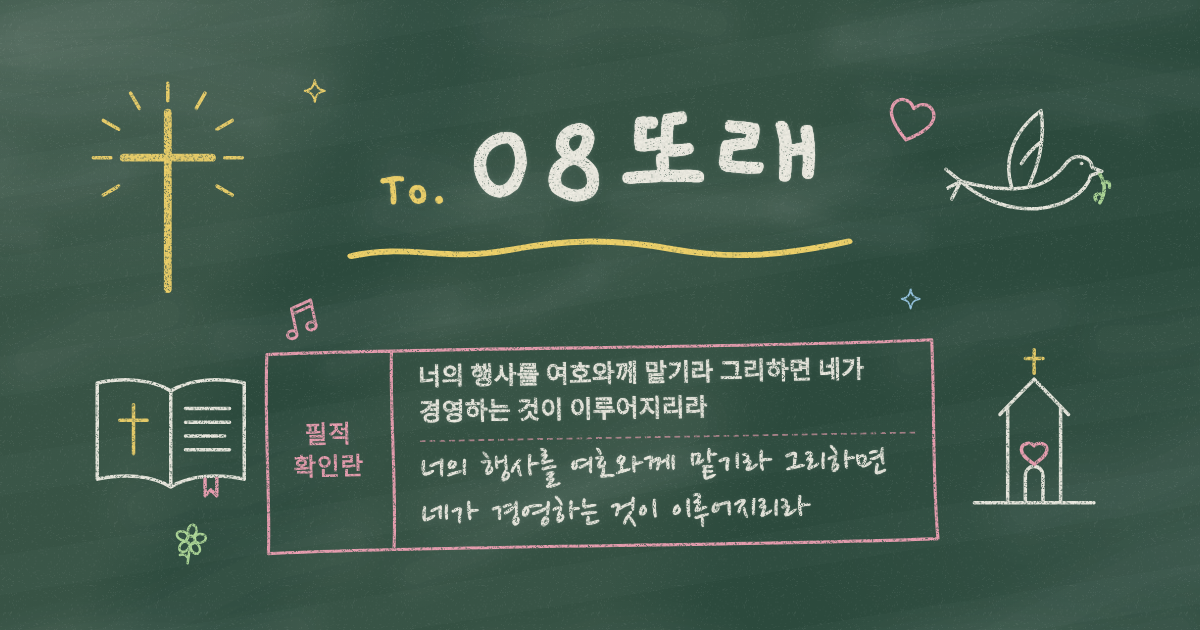
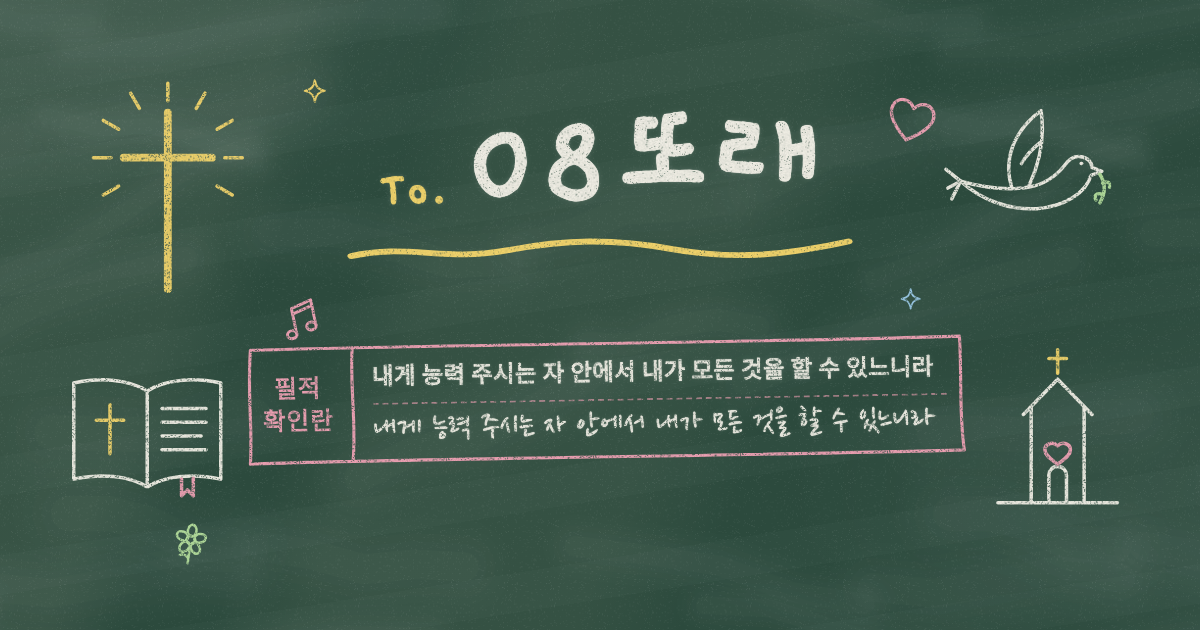
말씀 빌립보서 4:13 한 줄로, 직접 그리기에 획별 분필 색·굵기와 한 획 지우기
Claude-Session: https://claude.ai/code/session_01QYpkLqkGaZ9nNekEG9dvk9

diff --git a/index.html b/index.html
@@ -47,11 +47,12 @@ button{background:none;border:0;cursor:pointer}
 .c-uline{left:300px;top:184px;width:520px;height:30px;color:var(--yellow);transform:rotate(-1deg)}
 .c-uline path{fill:none;stroke:currentColor;stroke-width:4;stroke-linecap:round}
 .c-names{left:560px;top:224px;transform:translateX(-50%);font-family:var(--hand);font-size:33px;color:rgba(242,239,230,.88);white-space:nowrap;word-spacing:.3em}
-.c-pil{left:214px;top:290px;width:694px;display:flex;align-items:stretch;transform:rotate(-1deg)}
+.c-pil{left:196px;top:290px;width:740px;display:flex;align-items:stretch;transform:rotate(-1deg)}
 .c-pil .bx{position:absolute;left:0;top:0;width:100%;height:100%;overflow:visible;color:var(--pink)}
 .c-pil .bx path{fill:none;stroke:currentColor;stroke-width:3.2;stroke-linecap:round;stroke-linejoin:round;vector-effect:non-scaling-stroke}
-.c-pil .pl{flex:none;width:138px;display:flex;align-items:center;justify-content:center;text-align:center;font-family:var(--ui);font-weight:800;font-size:25px;line-height:1.3;letter-spacing:.04em;color:var(--pink)}
-.c-pil .pr{flex:1;min-width:0;padding:18px 26px 16px 24px}
+.c-pil .pl{flex:none;width:112px;display:flex;align-items:center;justify-content:center;text-align:center;font-family:var(--ui);font-weight:800;font-size:25px;line-height:1.3;letter-spacing:.04em;color:var(--pink)}
+.c-pil .pr{flex:1;min-width:0;padding:18px 22px 16px 20px}
+.c-pil .v,.c-pil .cp{white-space:nowrap}
 .c-pil .v{font-family:var(--ui);font-weight:700;font-size:25px;line-height:1.45;letter-spacing:.02em}
 .c-pil .rf:empty{display:none}
 .c-pil .rf{margin-top:2px;text-align:right;font-family:var(--hand);font-weight:700;font-size:21px;color:var(--yellow)}
@@ -152,9 +153,13 @@ body.writer #chip{bottom:calc(96px + env(safe-area-inset-bottom))}
 .tabs button[aria-pressed=true]{background:var(--omr);color:#fff}
 .padw{position:relative;margin-top:12px;border:6px solid #B3B8B1;background-color:var(--board);background-image:var(--dust)}
 #pad{display:block;width:100%;height:auto;aspect-ratio:1/1;touch-action:none;cursor:crosshair}
-#pad path{fill:none;stroke:var(--c);stroke-width:34;stroke-linecap:round;stroke-linejoin:round}
+#pad path{fill:none;stroke-linecap:round;stroke-linejoin:round}
 .padtip{position:absolute;left:0;right:0;top:44%;text-align:center;font-family:var(--hand);font-size:22px;color:rgba(242,239,230,.55);pointer-events:none}
-#padClear{position:absolute;right:8px;bottom:8px;padding:6px 12px;border-radius:14px;background:rgba(242,239,230,.14);color:var(--chalk);font-size:13px}
+.padbtns{position:absolute;right:8px;bottom:8px;display:flex;gap:6px}
+.padbtns button{padding:7px 12px;border-radius:14px;background:rgba(242,239,230,.16);color:var(--chalk);font-family:var(--ui);font-size:13px}
+.padbtns button:disabled{opacity:.35}
+.chips.pw button{flex:1;min-width:0;height:52px;flex-direction:column;gap:5px;font-family:var(--ui);font-size:12.5px;color:var(--chalk)}
+.chips.pw i{display:block;width:44px;border-radius:99px;background:var(--c)}
 .go{display:block;width:100%;height:54px;margin-top:18px;border-radius:27px;background:var(--board);color:var(--chalk);font-family:var(--ui);font-size:17px;font-weight:700}
 .err{min-height:1.5em;margin-top:10px;text-align:center;font-family:var(--ui);font-size:14px;color:var(--omr)}
 
@@ -196,8 +201,8 @@ body.placing #ctl{top:calc(64px + env(safe-area-inset-top))}
 <div id="cluster">
 <div class="c-d chalky" style="left:34px;top:26px;width:170px;height:230px;color:var(--yellow)" aria-hidden="true"><svg viewBox="0 0 170 230"><path d="M85 34v180M40 80h90" style="stroke-width:8"/><path d="M85 22V4M114 29.8l9-15.6M135.2 51l15.6-9M143 80h18M135.2 109l15.6 9M34.8 109l-15.6 9M27 80H9M34.8 51l-15.6-9M56 29.8l-9-15.6"/></svg></div>
 <div class="c-d chalky" style="left:910px;top:44px;width:172px;height:140px" aria-hidden="true"><svg viewBox="0 0 172 140"><path d="M18 86C40 92 66 96 88 92c16-3 28-12 36-22 4-6 10-10 17-9 7 1 11 6 11 11l10 4-11 4c-5 18-27 32-55 34-30 2-58-10-78-28z"/><path d="M70 92C62 66 70 36 100 14c4 26 0 50-12 76"/><path d="M80 68c6-10 12-16 20-22"/><path d="M18 86L3 74M18 86L5 93M18 86L9 104"/><path d="M141 68h.5"/><path d="M160 79c6 9 6 19 0 29" style="color:var(--green,#B5DE9C);stroke:#B5DE9C"/><path d="M163 88c5-3 8 0 7 4M161 99c-5-1-7 2-5 6" style="stroke:#B5DE9C"/></svg></div>
-<div class="c-d chalky" style="left:36px;top:322px;width:172px;height:132px" aria-hidden="true"><svg viewBox="0 0 172 132"><path d="M86 22C67 10 39 8 11 14v98c28-6 56-4 75 8 19-12 47-14 75-8V14c-28-6-56-4-75 8zM86 22v98"/><path d="M101 40h45M101 54h45M101 68h40M101 82h45"/><path d="M48 36v50M34 52h28" style="stroke:var(--yellow)"/><path d="M121 112v17l6-6 6 6v-18" style="stroke:var(--pink)"/></svg></div>
-<div class="c-d chalky" style="left:928px;top:296px;width:150px;height:172px" aria-hidden="true"><svg viewBox="0 0 150 172"><path d="M75 6v24M66 15h18" style="stroke:var(--yellow)"/><path d="M40 72l35-36 35 36M48 64v98h54V64M14 162h122M66 162v-28a9 9 0 0 1 18 0v28"/><path d="M75 104c-5-5-13-2-13 4 0 6 7 10 13 15 6-5 13-9 13-15 0-6-8-9-13-4z" style="stroke:var(--pink)"/></svg></div>
+<div class="c-d chalky" style="left:12px;top:322px;width:172px;height:132px" aria-hidden="true"><svg viewBox="0 0 172 132"><path d="M86 22C67 10 39 8 11 14v98c28-6 56-4 75 8 19-12 47-14 75-8V14c-28-6-56-4-75 8zM86 22v98"/><path d="M101 40h45M101 54h45M101 68h40M101 82h45"/><path d="M48 36v50M34 52h28" style="stroke:var(--yellow)"/><path d="M121 112v17l6-6 6 6v-18" style="stroke:var(--pink)"/></svg></div>
+<div class="c-d chalky" style="left:952px;top:296px;width:150px;height:172px" aria-hidden="true"><svg viewBox="0 0 150 172"><path d="M75 6v24M66 15h18" style="stroke:var(--yellow)"/><path d="M40 72l35-36 35 36M48 64v98h54V64M14 162h122M66 162v-28a9 9 0 0 1 18 0v28"/><path d="M75 104c-5-5-13-2-13 4 0 6 7 10 13 15 6-5 13-9 13-15 0-6-8-9-13-4z" style="stroke:var(--pink)"/></svg></div>
 <svg class="c-d chalky" viewBox="0 0 48 48" style="left:228px;top:244px;width:56px;height:56px;color:var(--pink);transform:rotate(-12deg)" aria-hidden="true"><use href="#s-music"/></svg>
 <svg class="c-d chalky" viewBox="0 0 48 48" style="left:250px;top:22px;width:38px;height:38px;color:var(--yellow)" aria-hidden="true"><use href="#s-sparkle"/></svg>
 <svg class="c-d chalky" viewBox="0 0 48 48" style="left:860px;top:236px;width:34px;height:34px;color:#9DCCEB" aria-hidden="true"><use href="#s-sparkle"/></svg>
@@ -206,7 +211,7 @@ body.placing #ctl{top:calc(64px + env(safe-area-inset-top))}
 <svg class="c-uline chalkL" viewBox="0 0 240 20" preserveAspectRatio="none" aria-hidden="true"><path d="M3 12C28 4 48 17 76 10S126 3 154 11s52 6 83-3"/></svg>
 <svg class="c-d chalky" viewBox="0 0 48 48" style="left:846px;top:38px;width:62px;height:62px;color:var(--pink);transform:rotate(14deg)" aria-hidden="true"><use href="#s-heart"/></svg>
 <p class="c-names chalky" id="names"></p>
-<div class="c-pil" id="pil"><svg class="bx chalky" viewBox="0 0 720 200" preserveAspectRatio="none" aria-hidden="true"><path d="M8 10C180 6 540 12 712 7c2 63-2 126 3 185-180 4-540-2-709 3 3-55-2-118 2-185zM140 9c-3 61 3 122-1 184"/></svg><div class="pl chalky">필적<br>확인란</div><div class="pr"><p class="v chalky glow" id="pv"></p><p class="rf chalky" id="pref"></p><p class="cp chalky glow" id="pcp"></p></div></div>
+<div class="c-pil" id="pil"><svg class="bx chalky" viewBox="0 0 720 200" preserveAspectRatio="none" aria-hidden="true"><path d="M8 10C180 6 540 12 712 7c2 63-2 126 3 185-180 4-540-2-709 3 3-55-2-118 2-185zM109 9c-3 61 3 122-1 184"/></svg><div class="pl chalky">필적<br>확인란</div><div class="pr"><p class="v chalky glow" id="pv"></p><p class="rf chalky" id="pref"></p><p class="cp chalky glow" id="pcp"></p></div></div>
 </div>
 <div id="items"></div>
 <div id="ghost" hidden></div>
@@ -251,11 +256,12 @@ body.placing #ctl{top:calc(64px + env(safe-area-inset-top))}
 <div class="rows"><div class="row"><span class="lb">그림</span><div class="ct"><div class="chips five" id="dStamp"></div></div></div></div>
 </div>
 <div id="drawPane" hidden>
-<div class="padw"><svg id="pad" class="chalky" viewBox="0 0 1000 1000" aria-label="손가락으로 그리는 칸"></svg><p class="padtip" id="padTip">손가락으로 그려 보세요</p><button type="button" id="padClear">다시 그리기</button></div>
+<div class="padw"><svg id="pad" class="chalky" viewBox="0 0 1000 1000" aria-label="손가락으로 그리는 칸"></svg><p class="padtip" id="padTip">손가락으로 그려 보세요</p><div class="padbtns"><button type="button" id="padUndo">한 획 지우기</button><button type="button" id="padClear">다 지우기</button></div></div>
 </div>
 <div class="rows">
 <div class="row"><span class="lb">분필</span><div class="ct"><div class="sticks" id="dColor"></div></div></div>
-<div class="row"><span class="lb">크기</span><div class="ct"><div class="chips sz" id="dSize"></div></div></div>
+<div class="row" id="rowSize"><span class="lb">크기</span><div class="ct"><div class="chips sz" id="dSize"></div></div></div>
+<div class="row" id="rowPen" hidden><span class="lb">굵기</span><div class="ct"><div class="chips pw" id="dPen"></div></div></div>
 </div>
 <button type="button" class="go" id="dGo">칠판에 붙이러 가기</button>
 <p class="err" id="dErr" role="alert"></p>
@@ -281,6 +287,9 @@ var CHALK_KO = { white: "흰 분필", yellow: "노란 분필", pink: "분홍 분
 var FONTS = { pen: ['"Nanum Pen Script"', 1.3, "펜글씨"], gaegu: ['"Gaegu"', 1, "동글"], gamja: ['"Gamja Flower"', 1, "삐뚤"], melody: ['"Hi Melody"', 1.06, "멜로디"], dokdo: ['"East Sea Dokdo"', 1.34, "휘갈김"] };
 var STAMPS = { cross: ["십자가"], bible: ["성경책"], dove: ["비둘기"], church: ["교회"], music: ["음표"], heart: ["하트"], star: ["별"], flower: ["꽃"], smile: ["웃는 얼굴"], sparkle: ["반짝"], mochi: ["찹쌀떡", "착 붙어!"], fork: ["포크", "잘 찍어!"], tissue: ["휴지", "잘 풀어!"], mirror: ["거울", "잘 봐!"] };
 var SIZES = [["s", 0.72, "작게"], ["m", 1, "보통"], ["l", 1.45, "크게"]];
+var PENS = [[16, "얇게"], [32, "보통"], [58, "굵게"]], CKEYS = Object.keys(CHALK);
+/* 직접 그린 낙서: 획마다 맨 앞에 "2000+색*10+굵기,0" 표시를 붙여 색과 굵기를 같이 저장한다 */
+function strokeTag(c, w) { return (2000 + Math.max(0, CKEYS.indexOf(c)) * 10 + w) + ",0"; }
 var CL = [-560, -290, 560, 270], MAXLEN = 200, FS = 26, GAP = 16;
 var reduce = !!(window.matchMedia && matchMedia("(prefers-reduced-motion: reduce)").matches);
 var S = { role: "", key: "", src: "", open: true, names: [], texts: {}, items: [], sig: "", mine: {}, draft: null, placing: false, zoom: null, bar: null, poll: 0, k: null, h: {}, ext: [-700, -420, 700, 420] };
@@ -384,10 +393,13 @@ function lenScale(t) { var n = Array.from(t).length; return n <= 16 ? 1.3 : n <=
 function drawSvg(path) {
   var s = sEl("svg", { viewBox: "0 0 1000 1000", "aria-hidden": "true", "class": "draw" });
   String(path || "").split(";").forEach(function (st) {
-    var pts = st.trim().split(" ").filter(Boolean).map(function (p) { return p.split(",").map(Number); }).filter(function (p) { return p.length === 2 && isFinite(p[0]) && isFinite(p[1]); });
+    var pts = st.trim().split(" ").filter(Boolean).map(function (p) { return p.split(",").map(Number); }).filter(function (p) { return p.length === 2 && isFinite(p[0]) && isFinite(p[1]); }), tag = null, e, d;
+    if (pts.length && pts[0][0] >= 2000) { tag = pts.shift()[0] - 2000; }
     if (!pts.length) return;
-    var d = "M" + pts[0][0] + " " + pts[0][1] + (pts.length === 1 ? "l0.1 0" : pts.slice(1).map(function (p) { return "L" + p[0] + " " + p[1]; }).join(""));
-    s.appendChild(sEl("path", { d: d }));
+    d = "M" + pts[0][0] + " " + pts[0][1] + (pts.length === 1 ? "l0.1 0" : pts.slice(1).map(function (p) { return "L" + p[0] + " " + p[1]; }).join(""));
+    e = sEl("path", { d: d });
+    if (tag != null) { e.style.stroke = chalk(CKEYS[Math.floor(tag / 10)]); e.style.strokeWidth = (PENS[tag % 10] || PENS[1])[0]; }
+    s.appendChild(e);
   });
   return s;
 }
@@ -685,7 +697,7 @@ function paintBoard() {
     if (!$("#names").hidden) paintText(y, $("#names"), 0);
     (function () {
       var pil = $("#pil"), w = pil.offsetWidth, h = pil.offsetHeight, l = pil.offsetLeft - 560, t = pil.offsetTop - 290, bx = new Path2D(), cp = $("#pcp");
-      bx.addPath(new Path2D("M8 10C180 6 540 12 712 7c2 63-2 126 3 185-180 4-540-2-709 3 3-55-2-118 2-185zM140 9c-3 61 3 122-1 184"), new DOMMatrix().translate(l, t).scale(w / 720, h / 200));
+      bx.addPath(new Path2D("M8 10C180 6 540 12 712 7c2 63-2 126 3 185-180 4-540-2-709 3 3-55-2-118 2-185zM109 9c-3 61 3 122-1 184"), new DOMMatrix().translate(l, t).scale(w / 720, h / 200));
       y.save(); y.translate(0, t + h / 2); y.rotate(-Math.PI / 180); y.translate(0, -t - h / 2);
       y.strokeStyle = "#F2A2B6"; y.lineWidth = 3.2; y.stroke(bx);
       y.setLineDash([9, 7]); y.globalAlpha = 0.65; y.lineWidth = 2; y.beginPath(); y.moveTo(l + cp.offsetLeft, t + cp.offsetTop + 1); y.lineTo(l + cp.offsetLeft + cp.offsetWidth, t + cp.offsetTop + 1); y.stroke();
@@ -700,8 +712,8 @@ function paintBoard() {
       y.save(); y.translate(it.x, it.y); y.rotate(rot * Math.PI / 180); y.translate(-it.x, -it.y);
       var cy = it.y - (st && st[1] ? ds * 0.14 : 0);
       if (it.shape === "draw") {
-        y.save(); y.translate(it.x - ds / 2, cy - ds / 2); y.scale(ds / 1000, ds / 1000); y.strokeStyle = chalk(it.color); y.lineWidth = 34;
-        Array.prototype.forEach.call(b.querySelectorAll("path"), function (p) { y.stroke(new Path2D(p.getAttribute("d"))); });
+        y.save(); y.translate(it.x - ds / 2, cy - ds / 2); y.scale(ds / 1000, ds / 1000);
+        Array.prototype.forEach.call(b.querySelectorAll("path"), function (p) { var cs = getComputedStyle(p); y.strokeStyle = cs.stroke; y.lineWidth = parseFloat(cs.strokeWidth) || 34; y.stroke(new Path2D(p.getAttribute("d"))); });
         y.restore();
       } else paintStamp(y, STAMPS[it.shape] ? it.shape : "heart", it.x, cy, ds, 0, chalk(it.color), 1);
       y.restore();
@@ -852,6 +864,8 @@ function syncDoodle() {
   c = chalk(d.color); draw = d.tab === "draw";
   $("#tStamp").setAttribute("aria-pressed", !draw); $("#tDraw").setAttribute("aria-pressed", draw);
   $("#stampPane").hidden = draw; $("#drawPane").hidden = !draw;
+  $("#rowSize").hidden = draw; $("#rowPen").hidden = !draw;
+  each("#dPen button", function (b) { b.setAttribute("aria-pressed", +b.dataset.v === (d.pw == null ? 1 : d.pw)); b.style.setProperty("--c", c); });
   fillItem($("#pvDood"), { kind: "doodle", id: "new", shape: d.shape === "draw" ? "heart" : d.shape, color: d.color, size: d.size, rot: 0 });
   each("#dStamp button", function (b) { b.setAttribute("aria-pressed", b.dataset.v === d.shape); b.style.setProperty("--c", c); });
   each("#dColor button", function (b) { b.setAttribute("aria-pressed", b.dataset.v === d.color); });
@@ -869,7 +883,7 @@ function stepPlace() {
     save("nick", d.nick);
   }
   if (d.kind === "doodle" && !d.moving) {
-    if (d.tab === "draw") { d.path = encodePad(); d.shape = "draw"; if (!d.path) { $("#dErr").textContent = "칸 안에 먼저 그려 주세요."; return; } }
+    if (d.tab === "draw") { d.path = encodePad(); d.shape = "draw"; d.size = 1; if (PAD.strokes.length) d.color = PAD.strokes[0].c; if (!d.path) { $("#dErr").textContent = "칸 안에 먼저 그려 주세요."; return; } }
     else if (d.shape === "draw") d.shape = "heart";
     d.nick = load("nick", "");
   }
@@ -937,43 +951,62 @@ function exportAll() {
 
 /* ---------- 직접 그리기 ---------- */
 var PAD = { strokes: [], cur: null, n: 0 };
+function padPen() { var d = S.draft || {}; return d.pw == null ? 1 : d.pw; }
 function padPoint(e) { var r = $("#pad").getBoundingClientRect(); return [Math.round((e.clientX - r.left) / r.width * 1000), Math.round((e.clientY - r.top) / r.height * 1000)]; }
 function padRender() {
   var s = $("#pad"); s.textContent = "";
-  PAD.strokes.forEach(function (st) { s.appendChild(sEl("path", { d: "M" + st.map(function (p) { return p[0] + " " + p[1]; }).join("L") + (st.length === 1 ? "l0.1 0" : "") })); });
+  PAD.strokes.forEach(function (st) {
+    var e = sEl("path", { d: "M" + st.pts.map(function (p) { return p[0] + " " + p[1]; }).join("L") + (st.pts.length === 1 ? "l0.1 0" : "") });
+    e.style.stroke = chalk(st.c); e.style.strokeWidth = PENS[st.w][0]; s.appendChild(e);
+  });
   $("#padTip").hidden = PAD.strokes.length > 0;
+  $("#padUndo").disabled = $("#padClear").disabled = !PAD.strokes.length;
 }
 function encodePad() {
   var pts = [], x0 = 1e9, y0 = 1e9, x1 = -1e9, y1 = -1e9, k, ox, oy;
-  PAD.strokes.forEach(function (st) { st.forEach(function (p) { x0 = Math.min(x0, p[0]); y0 = Math.min(y0, p[1]); x1 = Math.max(x1, p[0]); y1 = Math.max(y1, p[1]); }); });
+  PAD.strokes.forEach(function (st) { st.pts.forEach(function (p) { x0 = Math.min(x0, p[0]); y0 = Math.min(y0, p[1]); x1 = Math.max(x1, p[0]); y1 = Math.max(y1, p[1]); }); });
   if (!PAD.strokes.length) return "";
   k = 860 / Math.max(x1 - x0, y1 - y0, 60); ox = 500 - (x0 + x1) / 2 * k; oy = 500 - (y0 + y1) / 2 * k;
-  return PAD.strokes.map(function (st) { return st.map(function (p) { return Math.round(p[0] * k + ox) + "," + Math.round(p[1] * k + oy); }).join(" "); }).join(";").slice(0, 6000).replace(/[;\s]+$/, "");
+  var out = "";
+  PAD.strokes.forEach(function (st) {
+    var part = strokeTag(st.c, st.w) + " " + st.pts.map(function (p) { return Math.round(p[0] * k + ox) + "," + Math.round(p[1] * k + oy); }).join(" ");
+    if ((out + ";" + part).length <= 6000) out += (out ? ";" : "") + part;
+  });
+  return out;
 }
 (function () {
   var pad = $("#pad");
-  pad.addEventListener("pointerdown", function (e) { if (PAD.n > 600) return; try { pad.setPointerCapture(e.pointerId); } catch (x) {} PAD.cur = [padPoint(e)]; PAD.strokes.push(PAD.cur); PAD.n++; padRender(); e.preventDefault(); });
+  pad.addEventListener("pointerdown", function (e) { if (PAD.n > 600) return; try { pad.setPointerCapture(e.pointerId); } catch (x) {} PAD.cur = { c: S.draft.color, w: padPen(), pts: [padPoint(e)] }; PAD.strokes.push(PAD.cur); PAD.n++; padRender(); e.preventDefault(); });
   pad.addEventListener("pointermove", function (e) {
     if (!PAD.cur || PAD.n > 600) return;
-    var p = padPoint(e), l = PAD.cur[PAD.cur.length - 1];
+    var p = padPoint(e), l = PAD.cur.pts[PAD.cur.pts.length - 1];
     if (Math.hypot(p[0] - l[0], p[1] - l[1]) < 9) return;
-    PAD.cur.push(p); PAD.n++; padRender();
+    PAD.cur.pts.push(p); PAD.n++; padRender();
   });
   function end() { PAD.cur = null; }
   pad.addEventListener("pointerup", end); pad.addEventListener("pointercancel", end);
   $("#padClear").onclick = function () { PAD.strokes = []; PAD.n = 0; padRender(); };
+  $("#padUndo").onclick = function () { var st = PAD.strokes.pop(); if (st) PAD.n -= st.pts.length; padRender(); };
 })();
 
 /* ---------- 시작 ---------- */
 function header() {
-  var T = S.texts || {}, v = T.verse || "너의 행사를 여호와께 맡기라 그리하면 네가 경영하는 것이 이루어지리라";
+  var T = S.texts || {}, v = T.verse || "내게 능력 주시는 자 안에서 내가 모든 것을 할 수 있느니라";
   $("#tTo").textContent = T.to || "To.";
   $("#tWho").textContent = T.who || "08또래";
   $("#names").textContent = S.names.join("  "); $("#names").hidden = !S.names.length;
-  $("#pv").textContent = v; $("#pcp").textContent = T.copy || v;
+  $("#pv").textContent = v; $("#pcp").textContent = T.copy || v; fitPil();
   $("#pref").textContent = T.ref || "";
   $("#from").textContent = T.from || "From. 청년부 일동";
   D.title = (T.to || "To.") + " " + (T.who || "08또래");
+}
+/* 필적 확인란: 말씀이 길어도 한 줄에 들어가게 글씨 크기를 맞춘다 */
+function fitPil() {
+  [["#pv", 25], ["#pcp", 44]].forEach(function (q) {
+    var e = $(q[0]); e.style.fontSize = q[1] + "px";
+    var room = e.clientWidth, need = e.scrollWidth;
+    if (need > room && room > 0) e.style.fontSize = Math.floor(q[1] * room / need * 0.98 * 10) / 10 + "px";
+  });
 }
 function apply(d, src, first) {
   var sig = JSON.stringify(d.letters || []);
@@ -1018,7 +1051,7 @@ function intro() {
 function showBoard(d, src) {
   $("#gate").hidden = true; $("#ctl").hidden = false;
   apply(d, src, true);
-  if (D.fonts && D.fonts.ready) D.fonts.ready.then(function () { layout(); });
+  if (D.fonts && D.fonts.ready) D.fonts.ready.then(function () { fitPil(); layout(); });
   intro();
 }
 function boot() {
@@ -1069,6 +1102,12 @@ SIZES.forEach(function (z) {
   var b = el("button", "", z[2]); b.type = "button"; b.dataset.v = z[1];
   b.onclick = function () { S.draft.size = z[1]; syncDoodle(); };
   $("#dSize").appendChild(b);
+});
+PENS.forEach(function (p, i) {
+  var b = el("button"), ln = el("i"); b.type = "button"; b.dataset.v = i; b.setAttribute("aria-label", "분필 굵기 " + p[1]);
+  ln.style.height = Math.max(3, Math.round(p[0] / 4.2)) + "px"; b.appendChild(ln); b.appendChild(D.createTextNode(p[1]));
+  b.onclick = function () { S.draft.pw = i; syncDoodle(); };
+  $("#dPen").appendChild(b);
 });
 $("#tStamp").onclick = function () { S.draft.tab = "stamp"; syncDoodle(); };
 $("#tDraw").onclick = function () { S.draft.tab = "draw"; syncDoodle(); padRender(); };
